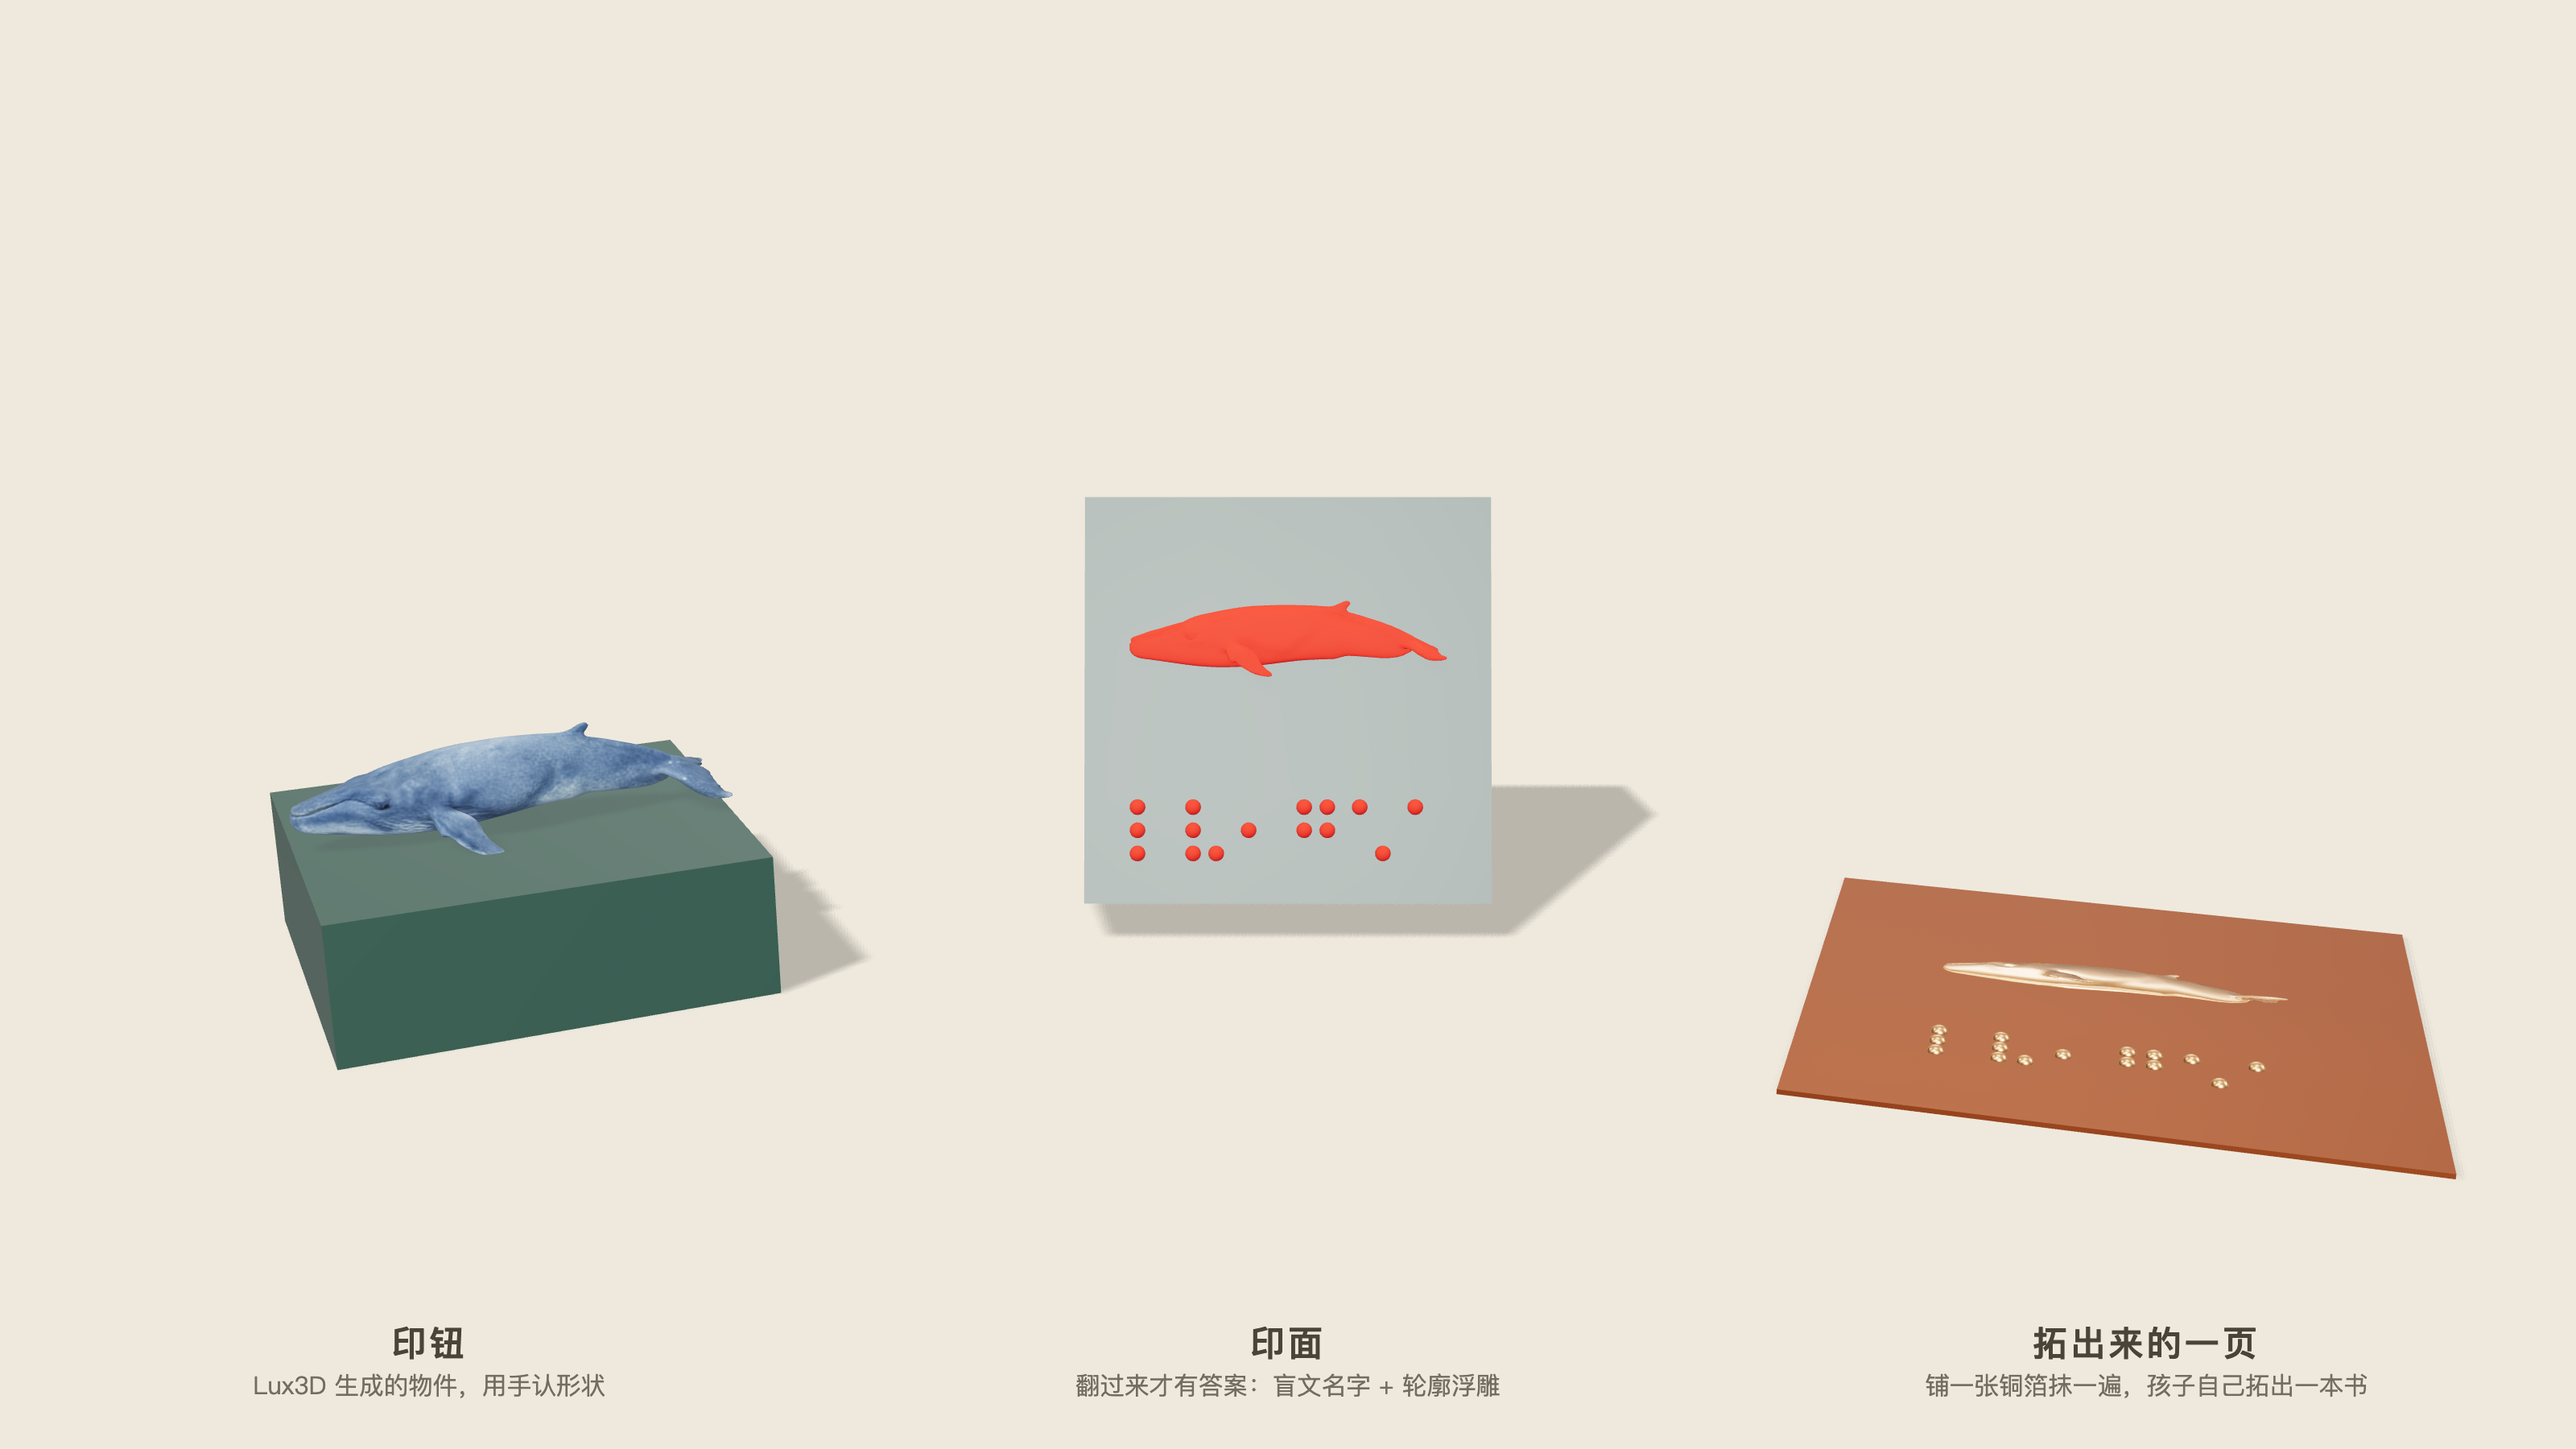
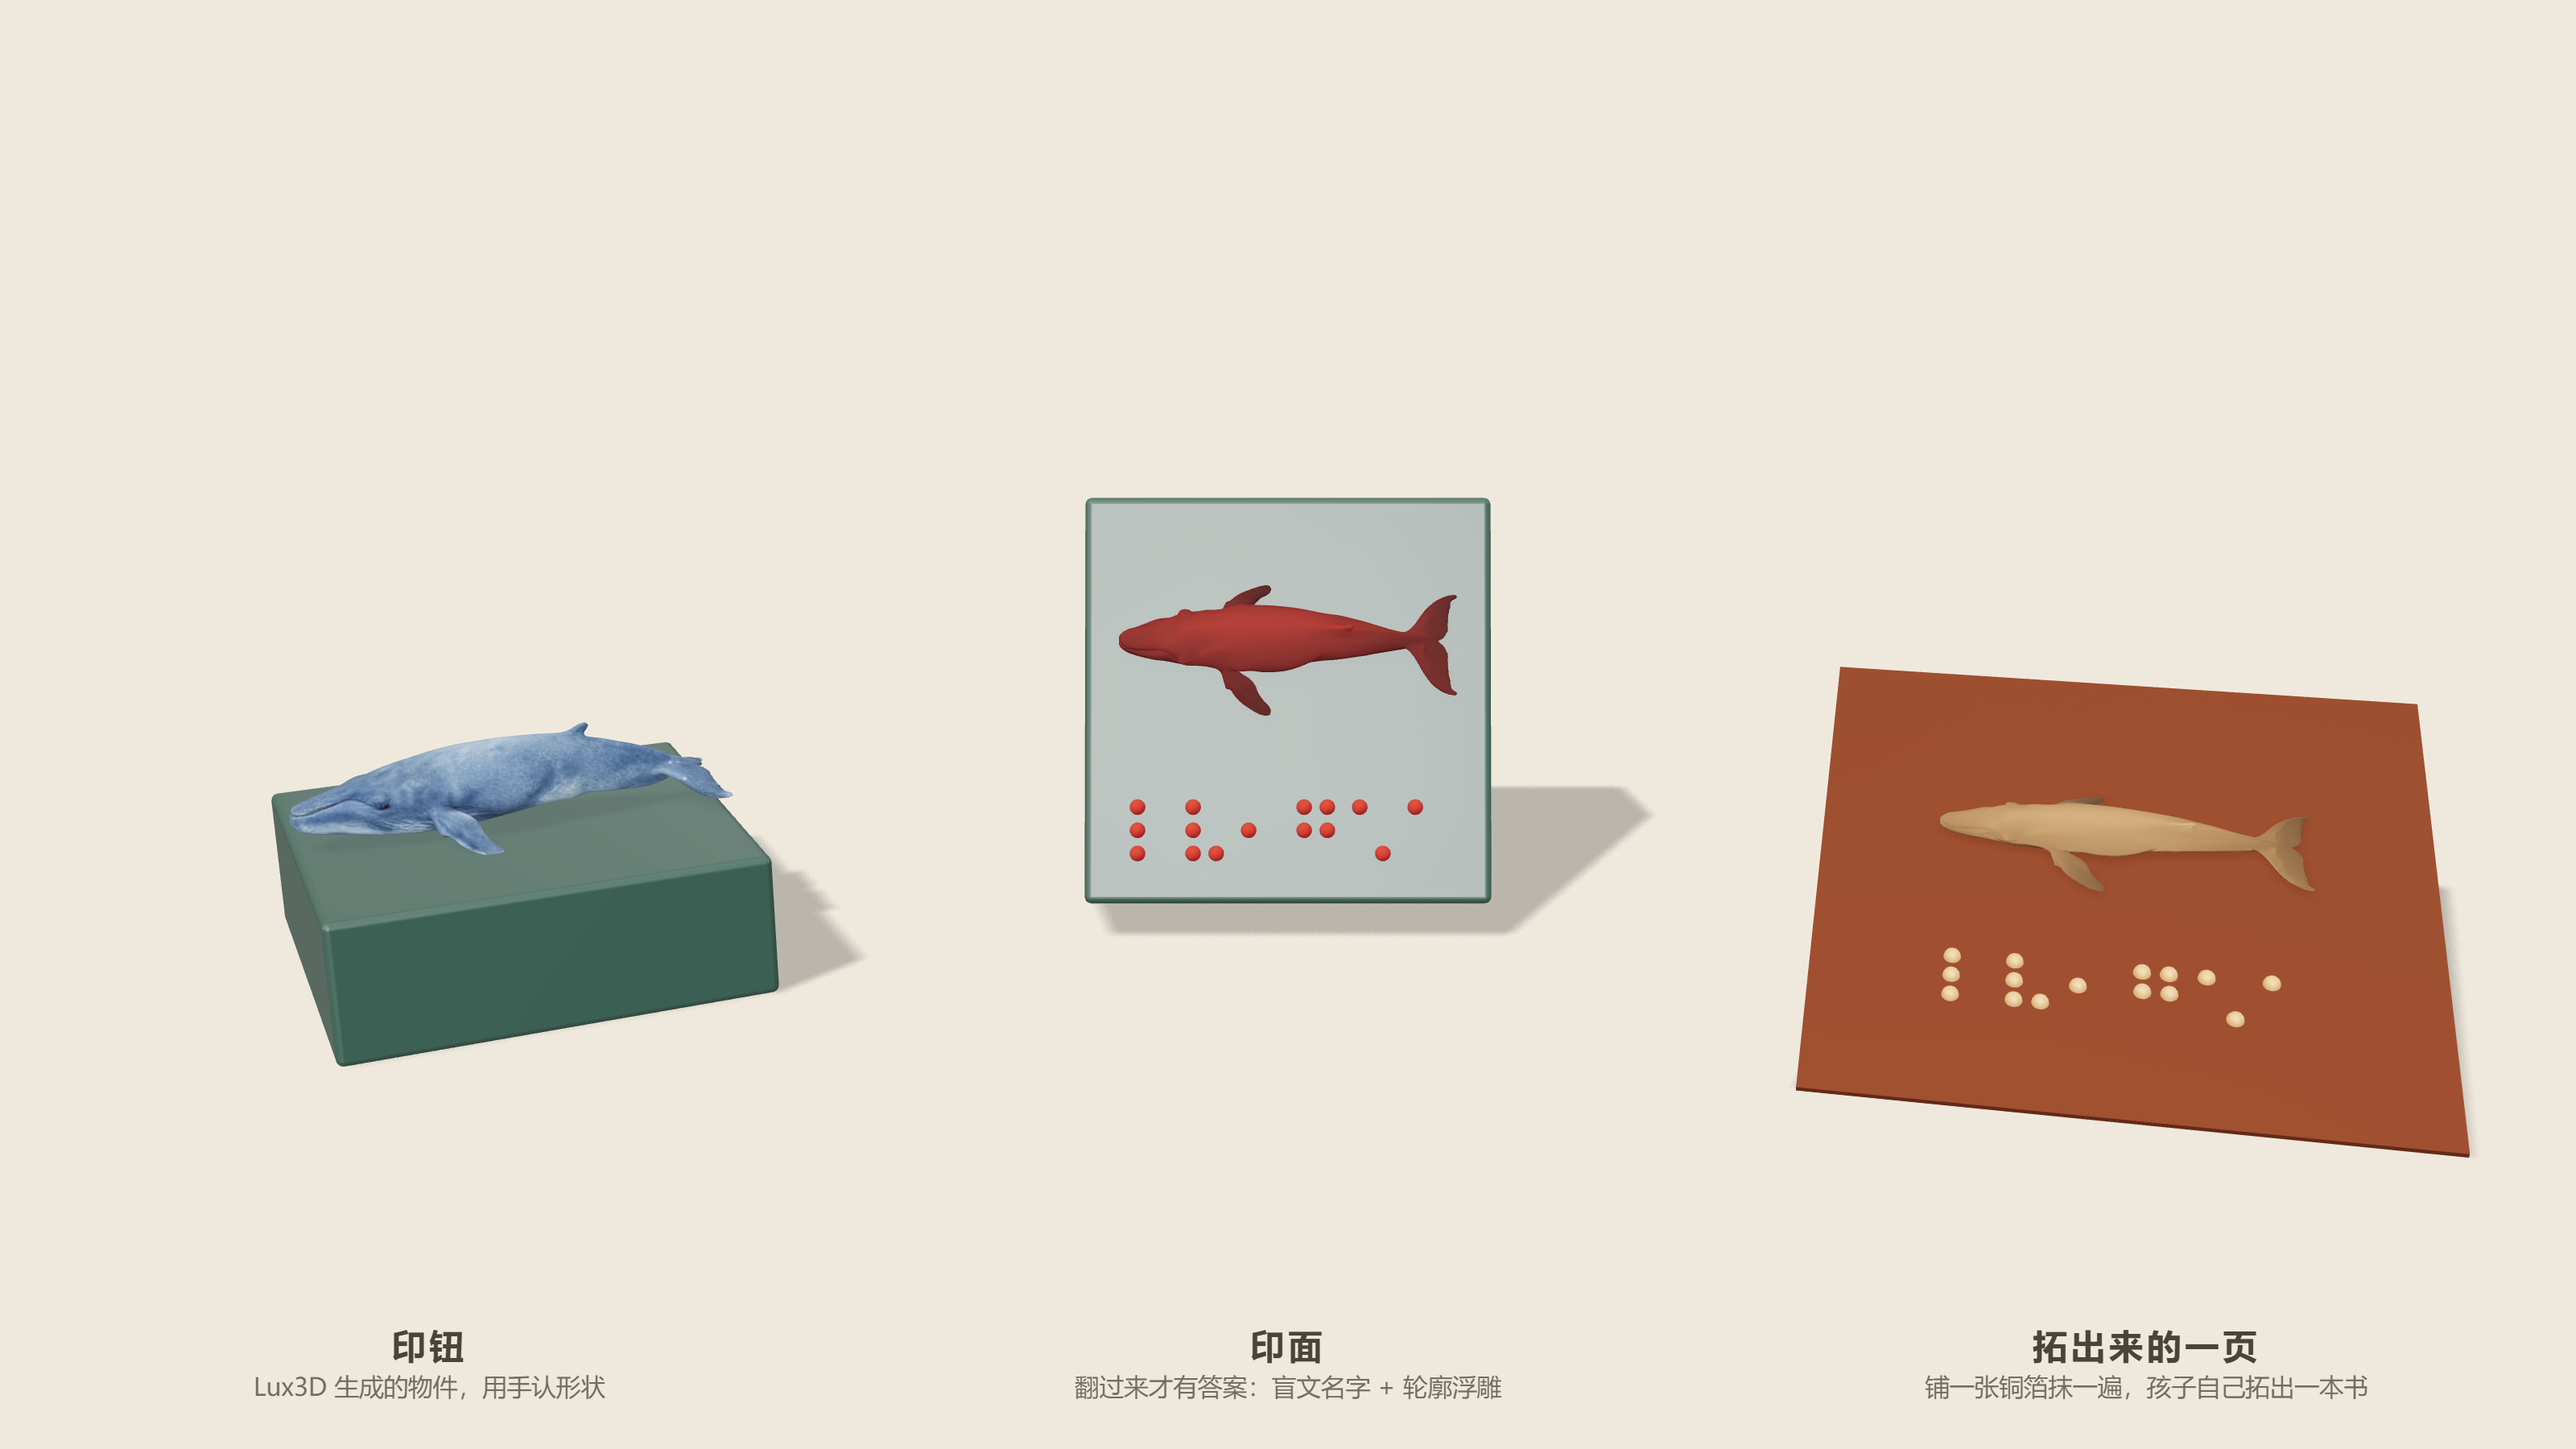
fix: preserve relief detail and verify final seal renders

diff --git a/web/src/seal-geo.ts b/web/src/seal-geo.ts
@@ -61,8 +61,35 @@ export function braille(cells: string, mat: THREE.Material) {
 export function face(s: Loaded, mat: THREE.Material) {
   const g = new THREE.Group();
   // Project these shapes from above so fins, ring openings and the crater survive flattening.
-  const pitch: Record<string, number> = { ant: 1.42, blue_whale: 0.96, saturn: 1.12, volcano: 0.72, yongzhong: 0.14 };
+  const pitch: Record<string, number> = { ant: 1.42, blue_whale: 1.27, saturn: 0.18, volcano: 0.65, yongzhong: 0.14 };
   const relief = fitted(s.model, s.W * 0.83, s.W * 0.52, Infinity, mat, s.yaw, pitch[s.def.name] ?? 0);
+  // Recesses keep a darker patina. Measure depth before flattening the mesh.
+  const reliefMat = mat.clone() as THREE.MeshStandardMaterial;
+  reliefMat.vertexColors = true;
+  reliefMat.clippingPlanes = mat.clippingPlanes;
+  relief.updateMatrixWorld(true);
+  const point = new THREE.Vector3();
+  const normal = new THREE.Vector3();
+  const grazing = new THREE.Vector3(-0.8, 0.55, 0.24).normalize();
+  relief.traverse((object) => {
+    if (!(object instanceof THREE.Mesh)) return;
+    const geometry = object.geometry.clone();
+    const vertices = geometry.getAttribute("position");
+    if (!geometry.hasAttribute("normal")) geometry.computeVertexNormals();
+    const normals = geometry.getAttribute("normal");
+    const normalMatrix = new THREE.Matrix3().getNormalMatrix(object.matrixWorld);
+    const colors = new Float32Array(vertices.count * 3);
+    for (let index = 0; index < vertices.count; index++) {
+      point.fromBufferAttribute(vertices, index).applyMatrix4(object.matrixWorld);
+      const depth = THREE.MathUtils.clamp(point.z / relief.userData.size.z + 0.5, 0, 1);
+      normal.fromBufferAttribute(normals, index).applyNormalMatrix(normalMatrix);
+      const patina = (0.2 + 0.8 * depth ** 2) * (0.56 + 0.44 * Math.max(0, normal.dot(grazing)));
+      colors.fill(patina, index * 3, index * 3 + 3);
+    }
+    geometry.setAttribute("color", new THREE.BufferAttribute(colors, 3));
+    object.geometry = geometry;
+    object.material = reliefMat;
+  });
   relief.scale.z = RELIEF / relief.userData.size.z;
   relief.position.set(0, s.W * 0.15, RELIEF / 2);
   const text = braille(s.def.cells, mat);

diff --git a/web/src/seal-animation.ts b/web/src/seal-animation.ts
@@ -31,7 +31,7 @@ const lines: [number, string][] = [
 ];
 const yFace = Ht + 1.2, yFoil = yFace + RELIEF + 0.03;
 const A = [new THREE.Vector3(0, 7.5, 27), new THREE.Vector3(0, 3.2, 0)];
-const B = [new THREE.Vector3(0, yFace + 17, 15), new THREE.Vector3(0, yFace, 0)];
+const B = [new THREE.Vector3(0, yFace + 18.5, 16.5), new THREE.Vector3(0, yFace - 1.5, 0)];
 const C = [new THREE.Vector3(1.6, 10.5, 30), new THREE.Vector3(1.6, 2.2, 0)];
 const pose = (t: number) => {
   const back = seg(t, T.part[0], T.part[1]);
@@ -57,6 +57,8 @@ const pose = (t: number) => {
   camera.position.lerpVectors(A[0], B[0], kb).sub(B[1]).multiplyScalar(mix(1, push, kb)).add(B[1]).lerp(C[0], kc);
   camera.position.x += Math.sin(t * 0.35) * 0.5;
   target.lerpVectors(A[1], B[1], kb).lerp(C[1], kc);
+  // Leave room for both the lifting sheet and the inverted knob during separation.
+  camera.position.sub(target).multiplyScalar(1 + 0.18 * Math.sin(Math.PI * back)).add(target);
   // &plain: one fixed caption (name and why it cannot be touched), for montage cuts
   onCaption?.(plain ? `${s.def.label} ｜ ${s.def.why}，${s.def.real}` : [...lines].reverse().find(([at]) => t >= at)![1]);
 };
